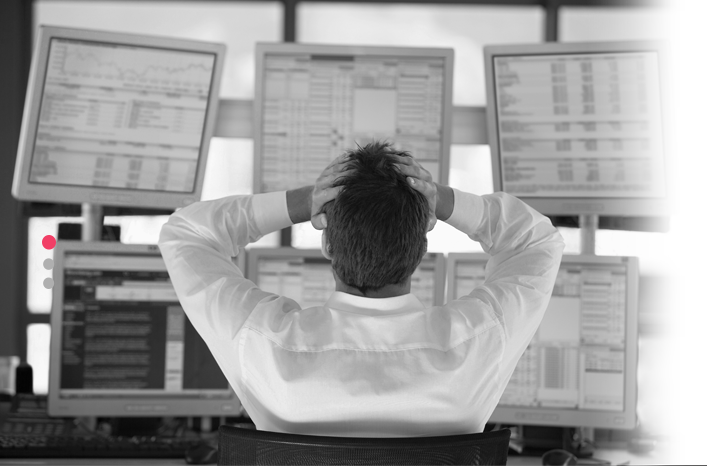
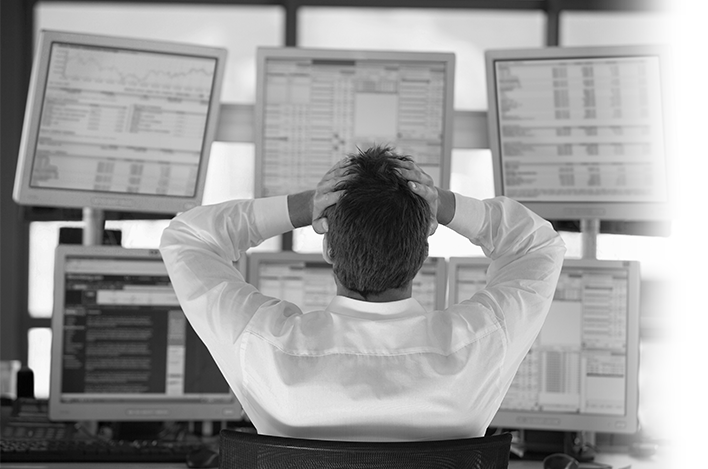
Fixed img stretching on diffrent screens.

diff --git a/css/first-slide.css b/css/first-slide.css
@@ -64,8 +64,9 @@
 }
 .troubled-manager {
     background-image: url(../img/troubled_manager.png);
-    width: 707px;
-    /*height: 465px;*/
+    max-width: 845px;
+    width: 650px;
+    flex-grow: 2;
     display: inline-block;
     background-position: right 0;
     background-size: cover;

diff --git a/css/third-slide.css b/css/third-slide.css
@@ -214,6 +214,10 @@
     #signup-form{
         left: 300px;
     }
+
+	#snapshot-description{
+		padding-top: 75px;
+	}
 }
 
 
@@ -247,4 +251,4 @@
 
 /* ../img/bubbles-nav.png */
 
-
+/*TODO zmienic obrazek manager'a, parallaxy, navbar, podpiąć pdf'y*/

diff --git a/index.html b/index.html
@@ -55,6 +55,7 @@
       </ul>
     <a href="#second-fold" class="btn-down dark"></a>
     </div>
+    <div class="nav-bubbles first"></a>
   </section>
   <div class="parallax-divider black"></div>
   <section id="second-fold">

diff --git a/css/second-fold.css b/css/second-fold.css
@@ -1,5 +1,5 @@
 #infographic {
-    height: 785px;
+    flex-grow: 2;
     background: url(../img/infographic.png) center center no-repeat;    
     margin: 0 60px;
 }
